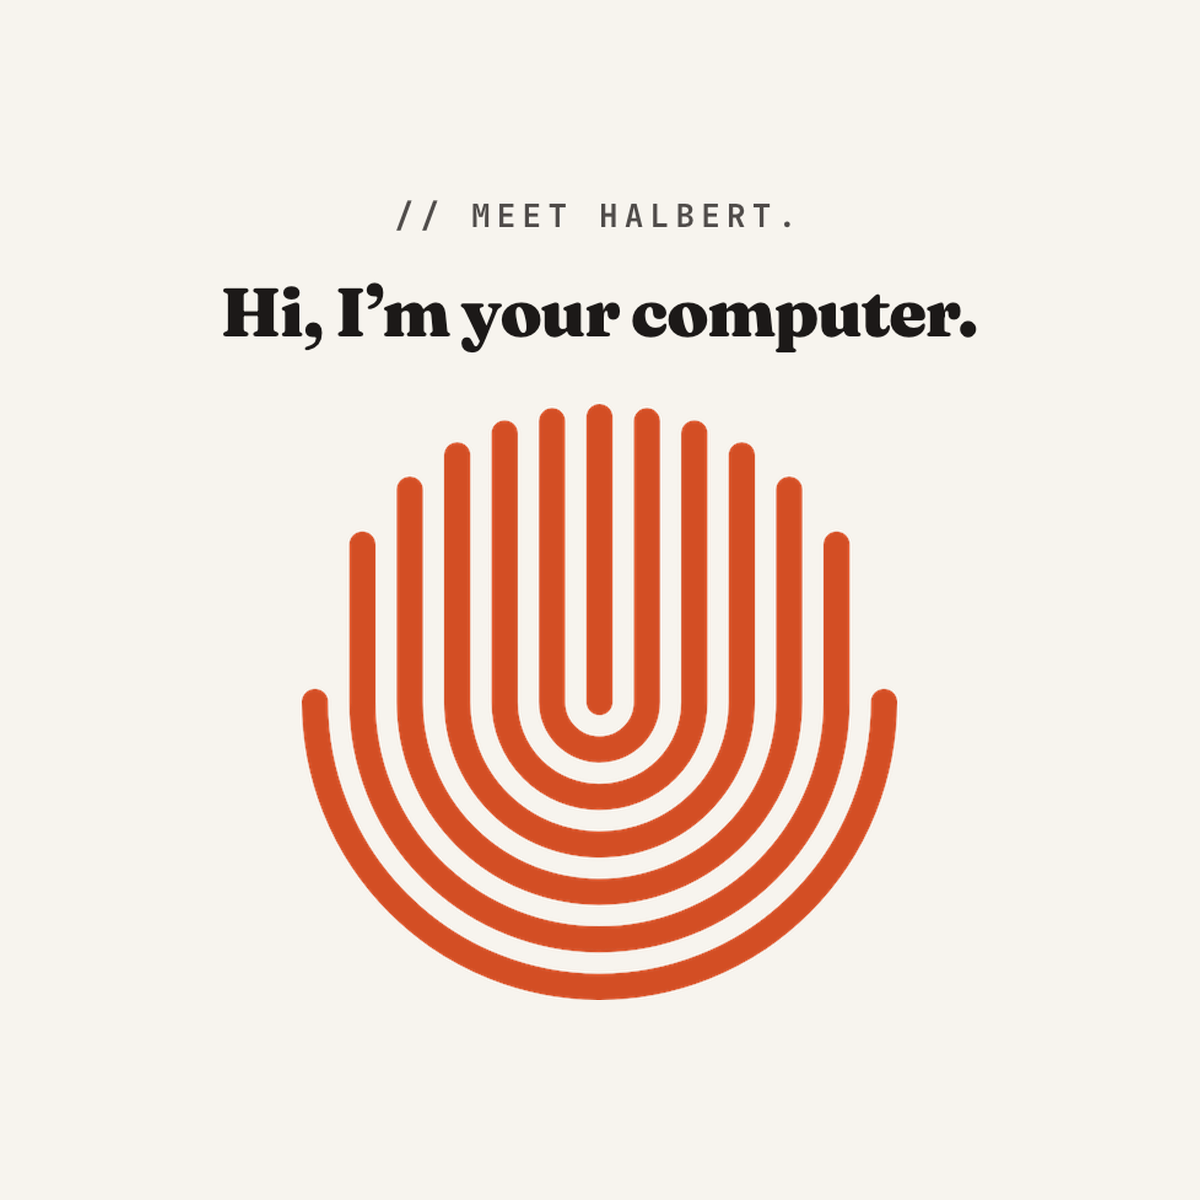
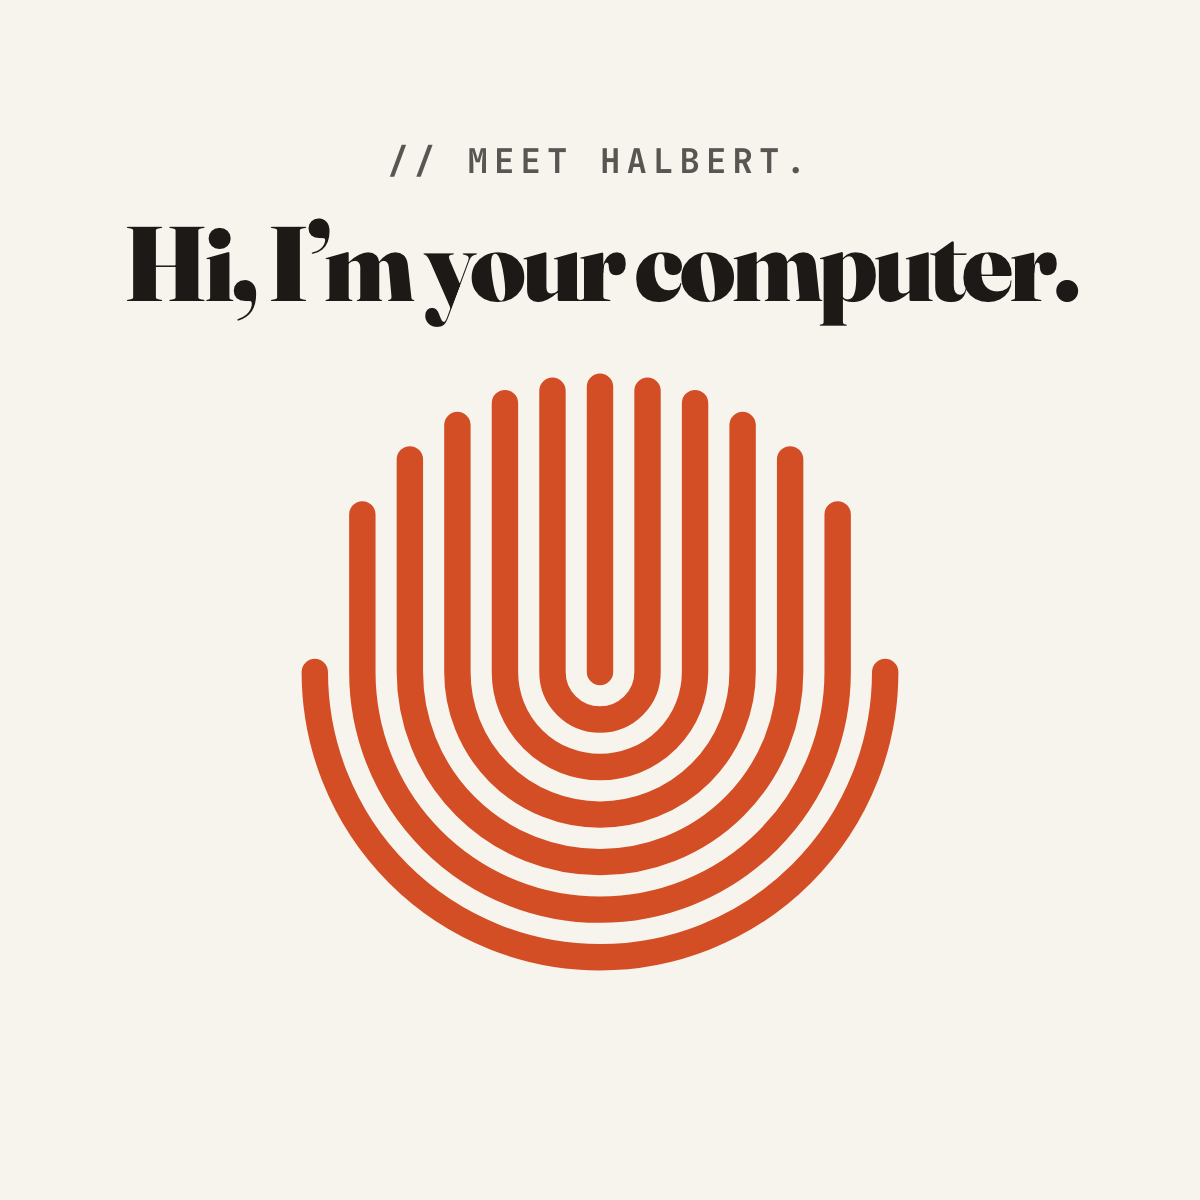
marketing: enlarge OpenGraph typography and update title to Meet Halbert
- Enlarge typography on OpenGraph card to 56px Fraunces headline and
  18px JetBrains Mono kicker for legibility on compact mobile previews.
- Update 7-line mark vertical alignment and optical lift across 1200x630
  and high-resolution 1200x1200 square crops.
- Update <title>, og:title, and twitter:title to 'Meet Halbert: Host
  Epistemology & Cognition, Smart Home + MCP' to prevent iOS Messages
  from stripping the brand name while preserving canonical descriptions.
- Mirror asset updates and metadata to marketing/web-v7.
- Document canonical title envelope in METADATA-AND-AI-SEO.md.

diff --git a/marketing/web-v7/index.html b/marketing/web-v7/index.html
@@ -7,29 +7,29 @@
     <link rel="icon" type="image/png" sizes="16x16" href="/favicon-16x16.png" />
     <link rel="apple-touch-icon" sizes="180x180" href="/apple-touch-icon.png" />
     <meta name="viewport" content="width=device-width, initial-scale=1.0" />
-    <title>Halbert — I know what’s wrong with me.</title>
-    <meta name="description" content="Halbert is 100% local host intelligence: it reads its own sensors and logs, remembers why you changed things, and tells you first. Linux today, macOS in beta." />
-    <link rel="canonical" href="https://halbert.net/" />
+    <title>Meet Halbert: Host Epistemology &amp; Cognition, Smart Home + MCP</title>
+    <meta name="description" content="The mind in your computer and the smart in your home. Proactive system triage, Home Assistant automation, and native MCP tools for Linux, Mac &amp; HA." />
+    <link rel="canonical" href="https://halbert.computer/" />
 
     <!-- OpenGraph / Facebook / LinkedIn / Discord -->
     <meta property="og:type" content="website" />
-    <meta property="og:url" content="https://halbert.net/" />
-    <meta property="og:title" content="Halbert — I know what’s wrong with me." />
-    <meta property="og:description" content="Halbert is 100% local host intelligence: it reads its own sensors and logs, remembers why you changed things, and tells you first. Linux today, macOS in beta." />
-    <meta property="og:image" content="https://halbert.net/og-image.png" />
-    <meta property="og:image:secure_url" content="https://halbert.net/og-image.png" />
+    <meta property="og:url" content="https://halbert.computer/" />
+    <meta property="og:title" content="Meet Halbert: Host Epistemology &amp; Cognition, Smart Home + MCP" />
+    <meta property="og:description" content="The mind in your computer and the smart in your home. Proactive system triage, Home Assistant automation, and native MCP tools for Linux, Mac &amp; HA." />
+    <meta property="og:image" content="https://halbert.computer/og-image.png" />
+    <meta property="og:image:secure_url" content="https://halbert.computer/og-image.png" />
     <meta property="og:image:type" content="image/png" />
     <meta property="og:image:width" content="1200" />
     <meta property="og:image:height" content="630" />
-    <meta property="og:image:alt" content="Halbert — Hi, I'm your computer." />
+    <meta property="og:image:alt" content="Halbert — I am the computer. And I put the smart in your home." />
 
     <!-- Twitter / X Card -->
     <meta name="twitter:card" content="summary_large_image" />
-    <meta name="twitter:url" content="https://halbert.net/" />
-    <meta name="twitter:title" content="Halbert — I know what’s wrong with me." />
-    <meta name="twitter:description" content="Halbert is 100% local host intelligence: it reads its own sensors and logs, remembers why you changed things, and tells you first. Linux today, macOS in beta." />
-    <meta name="twitter:image" content="https://halbert.net/og-image.png" />
-    <meta name="twitter:image:alt" content="Halbert — Hi, I'm your computer." />
+    <meta name="twitter:url" content="https://halbert.computer/" />
+    <meta name="twitter:title" content="Meet Halbert: Host Epistemology &amp; Cognition, Smart Home + MCP" />
+    <meta name="twitter:description" content="The mind in your computer and the smart in your home. Proactive system triage, Home Assistant automation, and native MCP tools for Linux, Mac &amp; HA." />
+    <meta name="twitter:image" content="https://halbert.computer/og-image.png" />
+    <meta name="twitter:image:alt" content="Halbert — I am the computer. And I put the smart in your home." />
 
     <!-- Self-hosted brand typefaces. Halbert is local-first; fetching faces from
          a CDN at runtime contradicts that and fails outright in the packaged

diff --git a/marketing/web-v10/index.html b/marketing/web-v10/index.html
@@ -10,7 +10,7 @@
     <!-- Tint Safari's top/bottom bars with the bone canvas instead of system
          white (iOS 15+). Keep in sync with --color-canvas (#F7F4EE, bone-100). -->
     <meta name="theme-color" content="#F7F4EE" />
-    <title>Halbert — Host Epistemology &amp; Cognition, Smart Home + MCP</title>
+    <title>Meet Halbert: Host Epistemology &amp; Cognition, Smart Home + MCP</title>
     <meta name="description" content="The mind in your computer and the smart in your home. Proactive system triage, Home Assistant automation, and native MCP tools for Linux, Mac &amp; HA." />
     <link rel="canonical" href="https://halbert.computer/" />
 
@@ -18,7 +18,7 @@
     <meta property="og:type" content="website" />
     <meta property="og:site_name" content="Halbert" />
     <meta property="og:url" content="https://halbert.computer/" />
-    <meta property="og:title" content="Halbert — Host Epistemology &amp; Cognition, Smart Home + MCP" />
+    <meta property="og:title" content="Meet Halbert: Host Epistemology &amp; Cognition, Smart Home + MCP" />
     <meta property="og:description" content="The mind in your computer and the smart in your home. Proactive system triage, Home Assistant automation, and native MCP tools for Linux, Mac &amp; HA." />
     <meta property="og:image" content="https://halbert.computer/og-image.png" />
     <meta property="og:image:secure_url" content="https://halbert.computer/og-image.png" />
@@ -30,7 +30,7 @@
     <!-- Twitter / X Card -->
     <meta name="twitter:card" content="summary_large_image" />
     <meta name="twitter:url" content="https://halbert.computer/" />
-    <meta name="twitter:title" content="Halbert — Host Epistemology &amp; Cognition, Smart Home + MCP" />
+    <meta name="twitter:title" content="Meet Halbert: Host Epistemology &amp; Cognition, Smart Home + MCP" />
     <meta name="twitter:description" content="The mind in your computer and the smart in your home. Proactive system triage, Home Assistant automation, and native MCP tools for Linux, Mac &amp; HA." />
     <meta name="twitter:image" content="https://halbert.computer/og-image.png" />
     <meta name="twitter:image:alt" content="Halbert — I am the computer. And I put the smart in your home." />

diff --git a/documentation/marketing/METADATA-AND-AI-SEO.md b/documentation/marketing/METADATA-AND-AI-SEO.md
@@ -35,12 +35,12 @@ changes (see the generation script in the RESULTS doc §7).
 
 To maintain complete narrative integrity across human social media previews, conversational AI queries, and structured knowledge graphs, all surfaces are derived from four canonical copy assets:
 
-### A. Canonical Title (57 characters)
+### A. Canonical Title (60 characters)
 Used identically across `<title>`, `og:title`, and `twitter:title` (there is deliberately no `<meta name="title">` — it is non-standard and `<title>` is the only title search engines read):
 ```text
-Halbert — Host Epistemology & Cognition, Smart Home + MCP
+Meet Halbert: Host Epistemology & Cognition, Smart Home + MCP
 ```
-- **Envelope:** 57 characters; fits the 56–58 character two-line envelope on mobile Twitter/X link cards without trailing ellipsis truncation.
+- **Envelope:** 60 characters; fits the two-line envelope on mobile Twitter/X and iOS Messages link cards without trailing ellipsis truncation. Retains "Meet Halbert" across link crawlers that deduplicate simple site names.
 - **Signals:** Host epistemology/cognition layer, Home Assistant/smart home integration, and native Model Context Protocol (MCP) server.
 
 ### B. Canonical Headline
@@ -84,7 +84,7 @@ The feature set is 100% unified across machine-readable JSON-LD structured data 
 
 ```html
 <!-- Primary Meta Tags -->
-<title>Halbert — Host Epistemology &amp; Cognition, Smart Home + MCP</title>
+<title>Meet Halbert: Host Epistemology &amp; Cognition, Smart Home + MCP</title>
 <meta name="description" content="The mind in your computer and the smart in your home. Proactive system triage, Home Assistant automation, and native MCP tools for Linux, Mac &amp; HA." />
 <link rel="canonical" href="https://halbert.computer/" />
 
@@ -92,7 +92,7 @@ The feature set is 100% unified across machine-readable JSON-LD structured data 
 <meta property="og:type" content="website" />
 <meta property="og:site_name" content="Halbert" />
 <meta property="og:url" content="https://halbert.computer/" />
-<meta property="og:title" content="Halbert — Host Epistemology &amp; Cognition, Smart Home + MCP" />
+<meta property="og:title" content="Meet Halbert: Host Epistemology &amp; Cognition, Smart Home + MCP" />
 <meta property="og:description" content="The mind in your computer and the smart in your home. Proactive system triage, Home Assistant automation, and native MCP tools for Linux, Mac &amp; HA." />
 <meta property="og:image" content="https://halbert.computer/og-image.png" />
 <meta property="og:image:secure_url" content="https://halbert.computer/og-image.png" />
@@ -104,7 +104,7 @@ The feature set is 100% unified across machine-readable JSON-LD structured data 
 <!-- Twitter / X Card -->
 <meta name="twitter:card" content="summary_large_image" />
 <meta name="twitter:url" content="https://halbert.computer/" />
-<meta name="twitter:title" content="Halbert — Host Epistemology &amp; Cognition, Smart Home + MCP" />
+<meta name="twitter:title" content="Meet Halbert: Host Epistemology &amp; Cognition, Smart Home + MCP" />
 <meta name="twitter:description" content="The mind in your computer and the smart in your home. Proactive system triage, Home Assistant automation, and native MCP tools for Linux, Mac &amp; HA." />
 <meta name="twitter:image" content="https://halbert.computer/og-image.png" />
 <meta name="twitter:image:alt" content="Halbert — I am the computer. And I put the smart in your home." />
